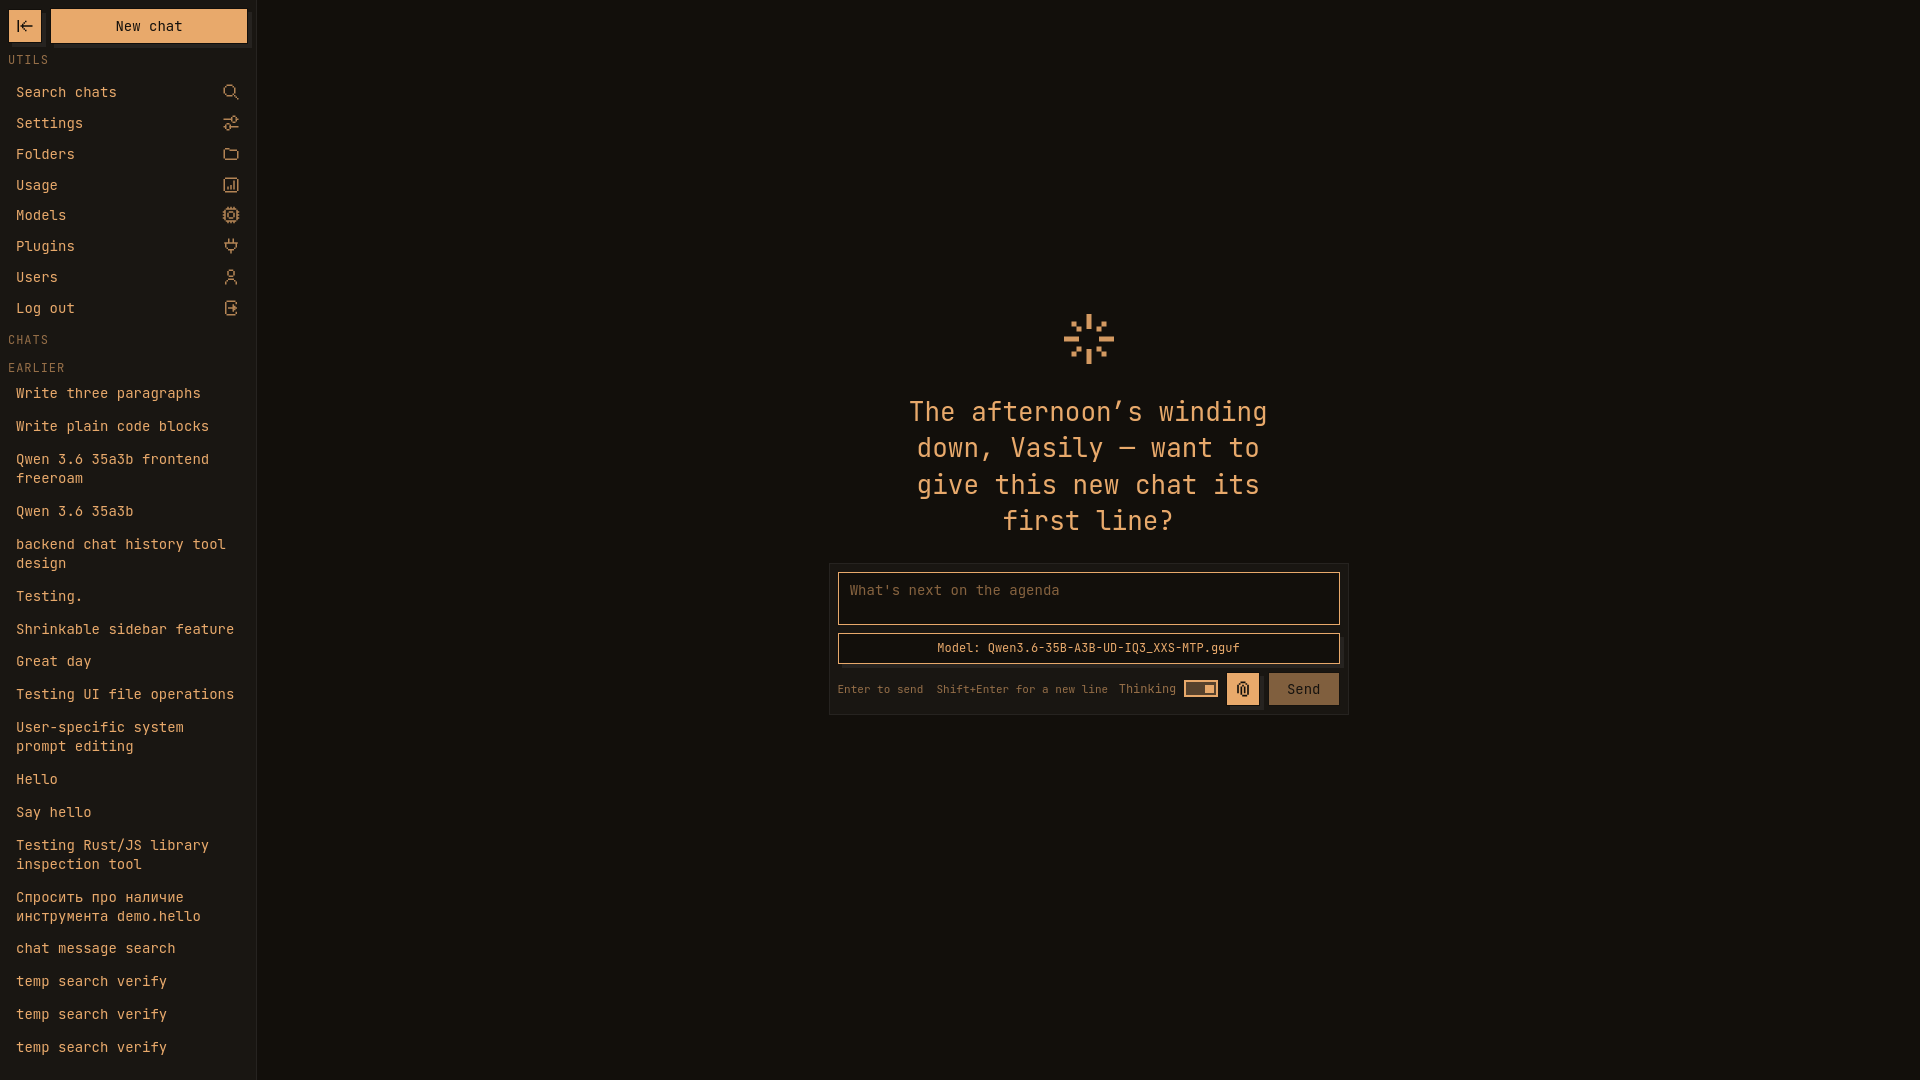
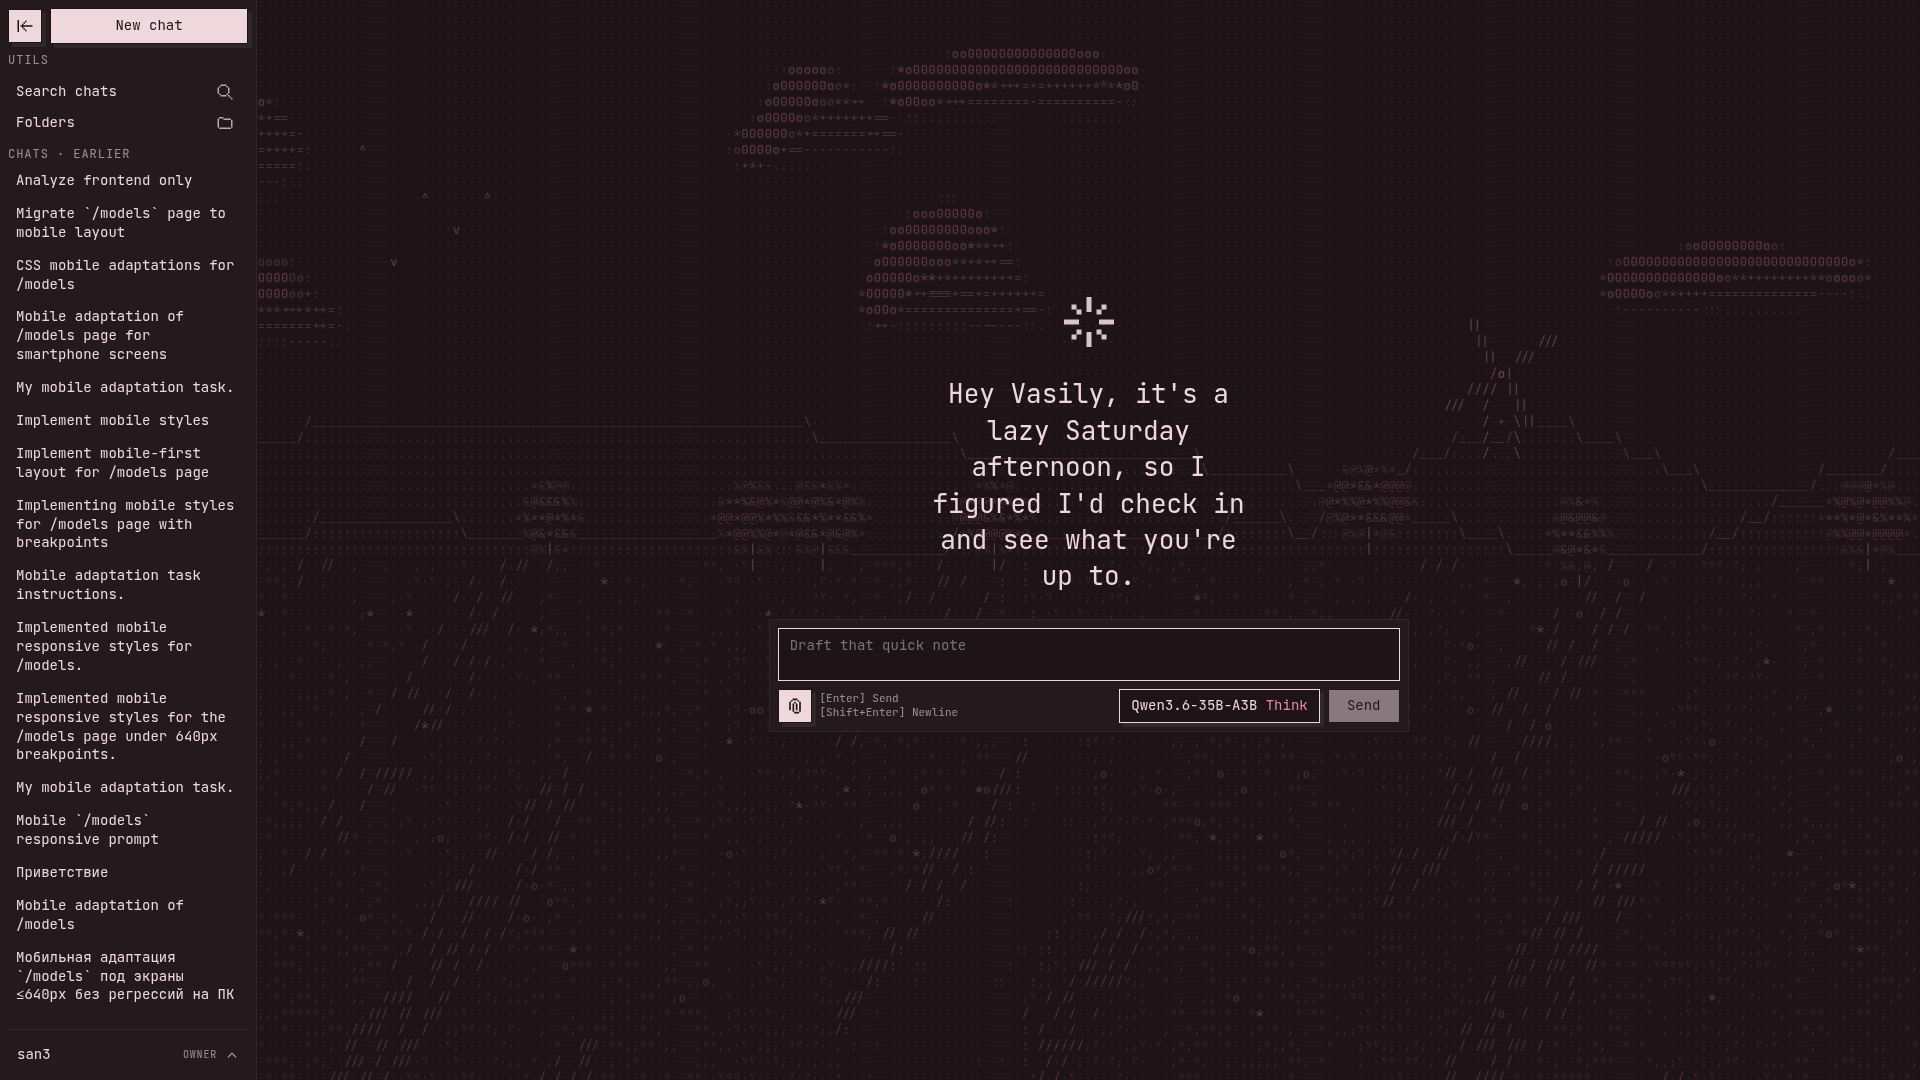
docs: screenshots retaken in Rose Dusk with the windmill background, and a phone row

diff --git a/README.md b/README.md
@@ -2,7 +2,7 @@
 A local-first LLM chat agent with real tool-calling — reads/writes files, inspects the machine it runs on, gated behind a permission system so nothing actually happens without your say-so. Rust/axum backend, React frontend, llama.cpp for inference (Ollama optional) — nothing leaves your machine.
 
 <p align="center">
-  <img src="./readme/chat-tool-usage.png" alt="Chat with the agent listing a project folder through a tool call, asking for permission first" width="720">
+  <img src="./readme/chat-tool-usage.png" alt="A chat where the agent ran a shell command through a tool call, the call opened to show its arguments and result" width="720">
 </p>
 <p align="center"><em>Asked to read a project folder — the agent thinks about it (collapsed above), then stops to ask permission before running <code>storage.list_directory</code>.</em></p>
 
@@ -67,7 +67,13 @@ It starts those three in Docker (and stops the backend container), then runs `ca
 | | | |
 |:---:|:---:|:---:|
 | <img src="./readme/home-screen.png" width="260"><br><sub>Home — a fresh chat starts with a generated greeting, and the model for it can be picked right there.</sub> | <img src="./readme/models-tab.png" width="260"><br><sub>Models — what is loaded and where it went, each model's launch profiles with Load, Test and Edit.</sub> | <img src="./readme/models-download.png" width="260"><br><sub>Download — search Hugging Face and download into your model folder; the free space is shown.</sub> |
-| <img src="./readme/chat-choose-model.png" width="260"><br><sub>Choose model — one chooser with a tab per provider, each launch profile with its settings.</sub> | <img src="./readme/settings-page.png" width="260"><br><sub>Settings — name, timezone, a theme picker with a live mini-preview, and the default model with its launch profile.</sub> | <img src="./readme/plugins-page.png" width="260"><br><sub>Plugins — enable Telegram, Discord, or VK to talk to the agent from your own chat app.</sub> |
+| <img src="./readme/chat-choose-model.png" width="260"><br><sub>Choose model — one chooser with a tab per provider, each launch profile with its settings.</sub> | <img src="./readme/settings-page.png" width="260"><br><sub>Settings — the Appearance tab: themes and animated backgrounds, with a live preview of the page.</sub> | <img src="./readme/plugins-page.png" width="260"><br><sub>Plugins — enable Telegram, Discord, or VK to talk to the agent from your own chat app.</sub> |
+
+On a phone the same pages reflow: the sidebar slides over the page, tabs scroll sideways, and a menu or dialog stays inside the screen.
+
+| | | | |
+|:---:|:---:|:---:|:---:|
+| <img src="./readme/mobile-home.png" width="170"><br><sub>Home</sub> | <img src="./readme/mobile-sidebar.png" width="170"><br><sub>The chat list</sub> | <img src="./readme/mobile-models.png" width="170"><br><sub>Models</sub> | <img src="./readme/mobile-chat.png" width="170"><br><sub>A chat with a tool call</sub> |
 
 ## Why this model
 llm-tulpa runs one local model at a time — any tool-calling-capable model works, but it's worth knowing why this one specifically: it's a mixture-of-experts model, and despite its size, only a fraction of its weights are actually active per token. On a VRAM-constrained card that mattered more than raw parameter count — a same-generation *dense* model of comparable size, mostly spilled to system RAM, ran at a barely-usable ~1.5 tokens/sec on the 6GB card this project started on, while the MoE model held nearly the same speed as a much smaller dense model (~8 t/s there) while clearly outperforming it on real tasks (long single-shot generations, multi-step reasoning). If you're VRAM-constrained, it's worth looking for an MoE quant before ruling out anything bigger than what fits entirely in VRAM.
